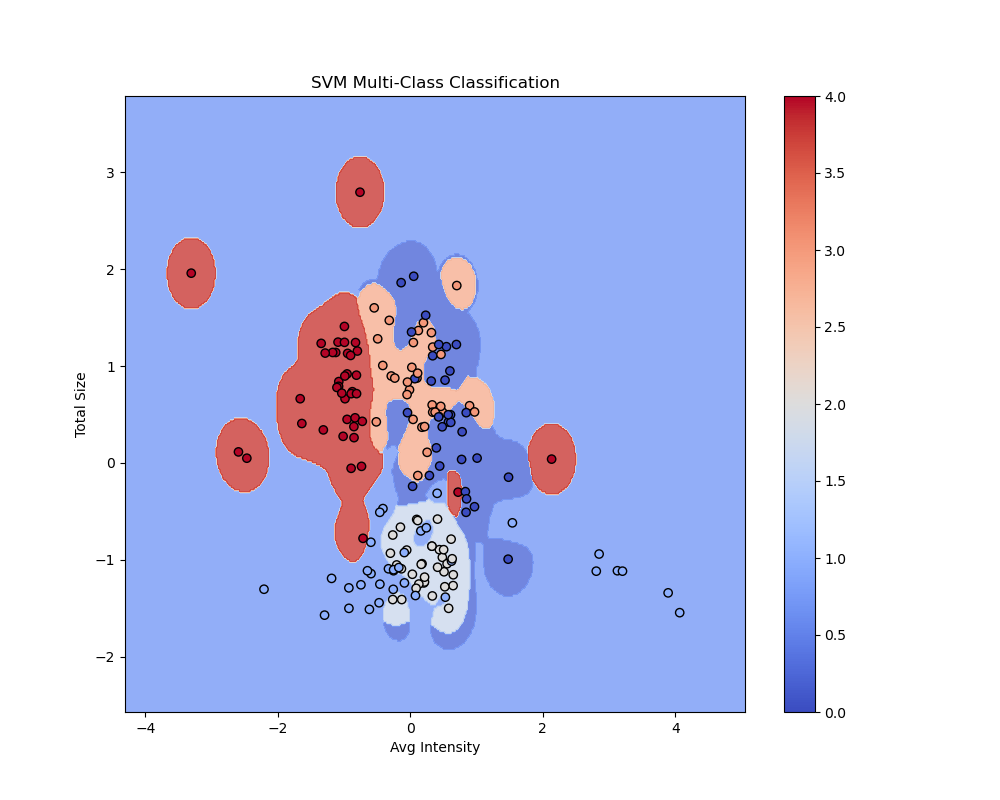
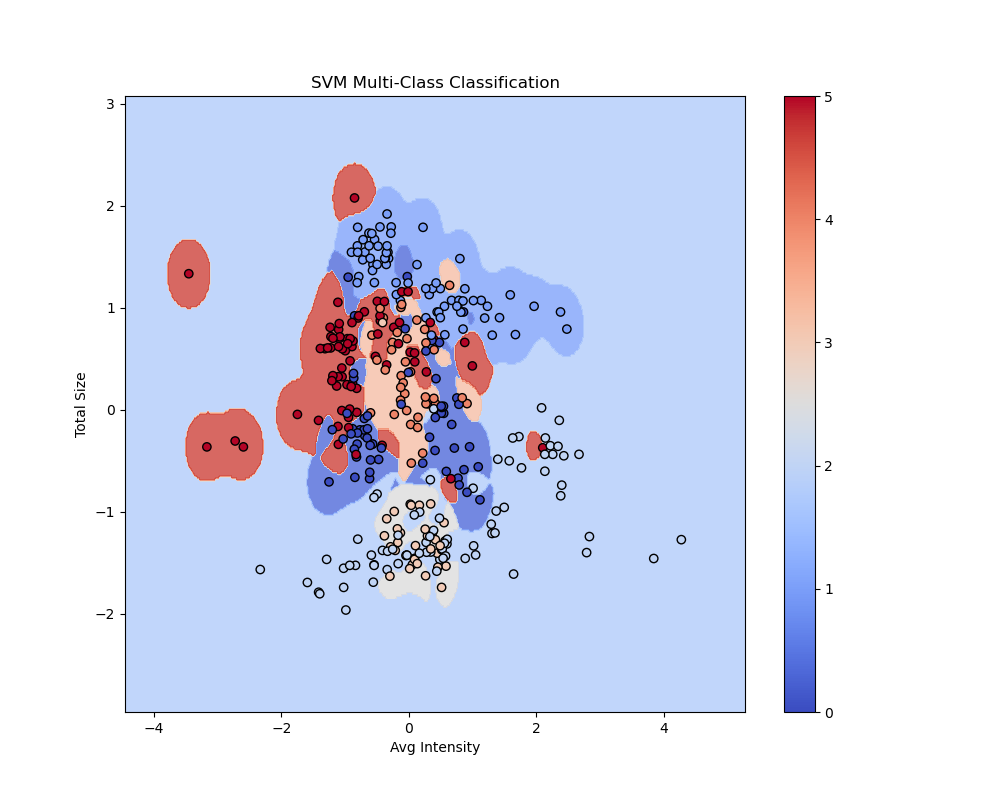
Updated kernel and ran images... best F1 has been found

diff --git a/SVM/SVM.py b/SVM/SVM.py
@@ -94,7 +94,7 @@ training_indices = rng.choice(np.arange(len(parameters_range)), size=10, replace
 parameters_samples = parameters_range[training_indices]
 
 # Obtains the kernel for the GP regression model
-kernel = 1 * RBF(length_scale=2.0, length_scale_bounds=(1e-5, 1e5)) + DotProduct(sigma_0=2.0, sigma_0_bounds=(1e-5, 1e5))
+kernel = 1 * RBF(length_scale=2.0, length_scale_bounds=(1e-5, 1e5)) * DotProduct(sigma_0=2.0, sigma_0_bounds=(1e-5, 1e5))
 gaussian_process = GaussianProcessRegressor(kernel=kernel, n_restarts_optimizer=9)
 
 # Obtains accuracy of initial samples
@@ -113,7 +113,7 @@ for param in parameters_samples:
     f1_samples = np.append(f1_samples, f1)
 
 iterations_since_last_improvement = 0
-while iterations_since_last_improvement < 20:
+while iterations_since_last_improvement < 10:
 
     # Fit the GP model to the samples
     parameters_samples = parameters_samples.reshape(-1,2)
